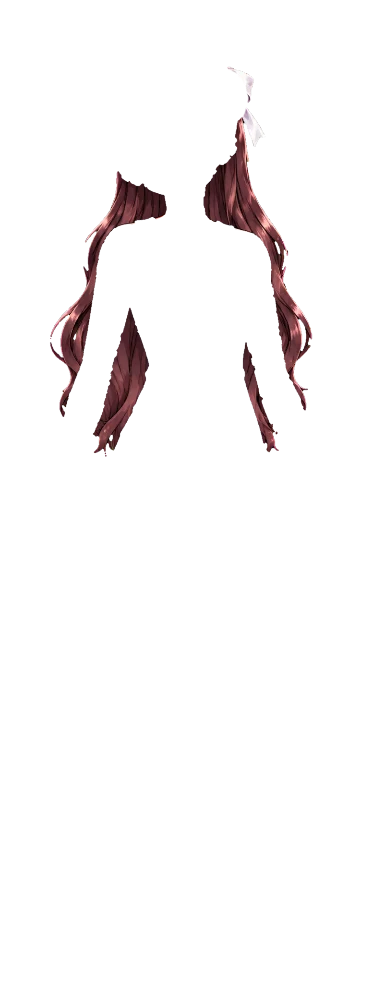
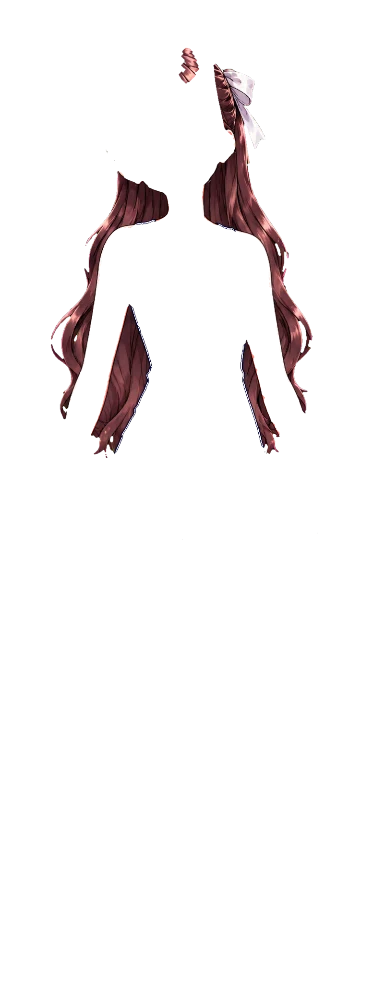
v91: 修好頭髮缺角（頭右上角）、臉頰旁的細縫

diff --git a/sw.js b/sw.js
@@ -1,5 +1,5 @@
 // 離線快取：先用網路，失敗時用快取（內容更新時改版本號）
-const CACHE = 'idolstudy-v90';
+const CACHE = 'idolstudy-v91';
 const FILES = ['./', './index.html', './css/style.css', './css/talk.css', './css/rewards.css', './css/lobby-pastel.css', './css/pastel-pages.css', './css/names.css', './css/v2.css', './css/drama.css', './js/names.js', './js/rewards.js', './js/app.js', './js/data.js', './js/store.js', './manifest.webmanifest', './icons/icon-192.png', './js/course.js', './js/util.js', './js/talk.js', './js/sound.js', './js/drama.js', './js/games.js', './js/course2.js', './js/course3.js', './js/themes.js', './js/extras.js', './js/bank.js', './js/examdata.js', './js/exam.js', './js/npc.js', './js/hangul.js', './js/hangul-art.js', './js/facemap.js', './js/avatar.js', './js/doll-index.js', './js/doll-acc.js', './js/doll-acc-size.js', './js/friends.js', './js/cloud.js', './js/chat.js', './js/chatcards.js', './js/binder.js', './js/eggs.js', './css/exam.css', './css/fx.css', './css/chat.css', './css/me.css', './css/binder.css', './css/home-stage.css', './css/hsing.css', './js/hsing.js', './assets/art/bg-practice.webp', './assets/art/teacher-cut.webp', './assets/art/teacher-face.webp', './assets/art/logo.webp', './assets/art/bn-closet.webp', './assets/art/bn-cards.webp', './assets/art/bn-friends.webp', './assets/art/bn-map.webp', ...['home','wrong','cards','me','mic','speaker','gift','fire','book','chat','star','heart','zh','en','ko','meme','medal','map','trophy'].map((n) => `./assets/art/icons/ui-${n}.webp`)];
 
 self.addEventListener('install', (e) => {
